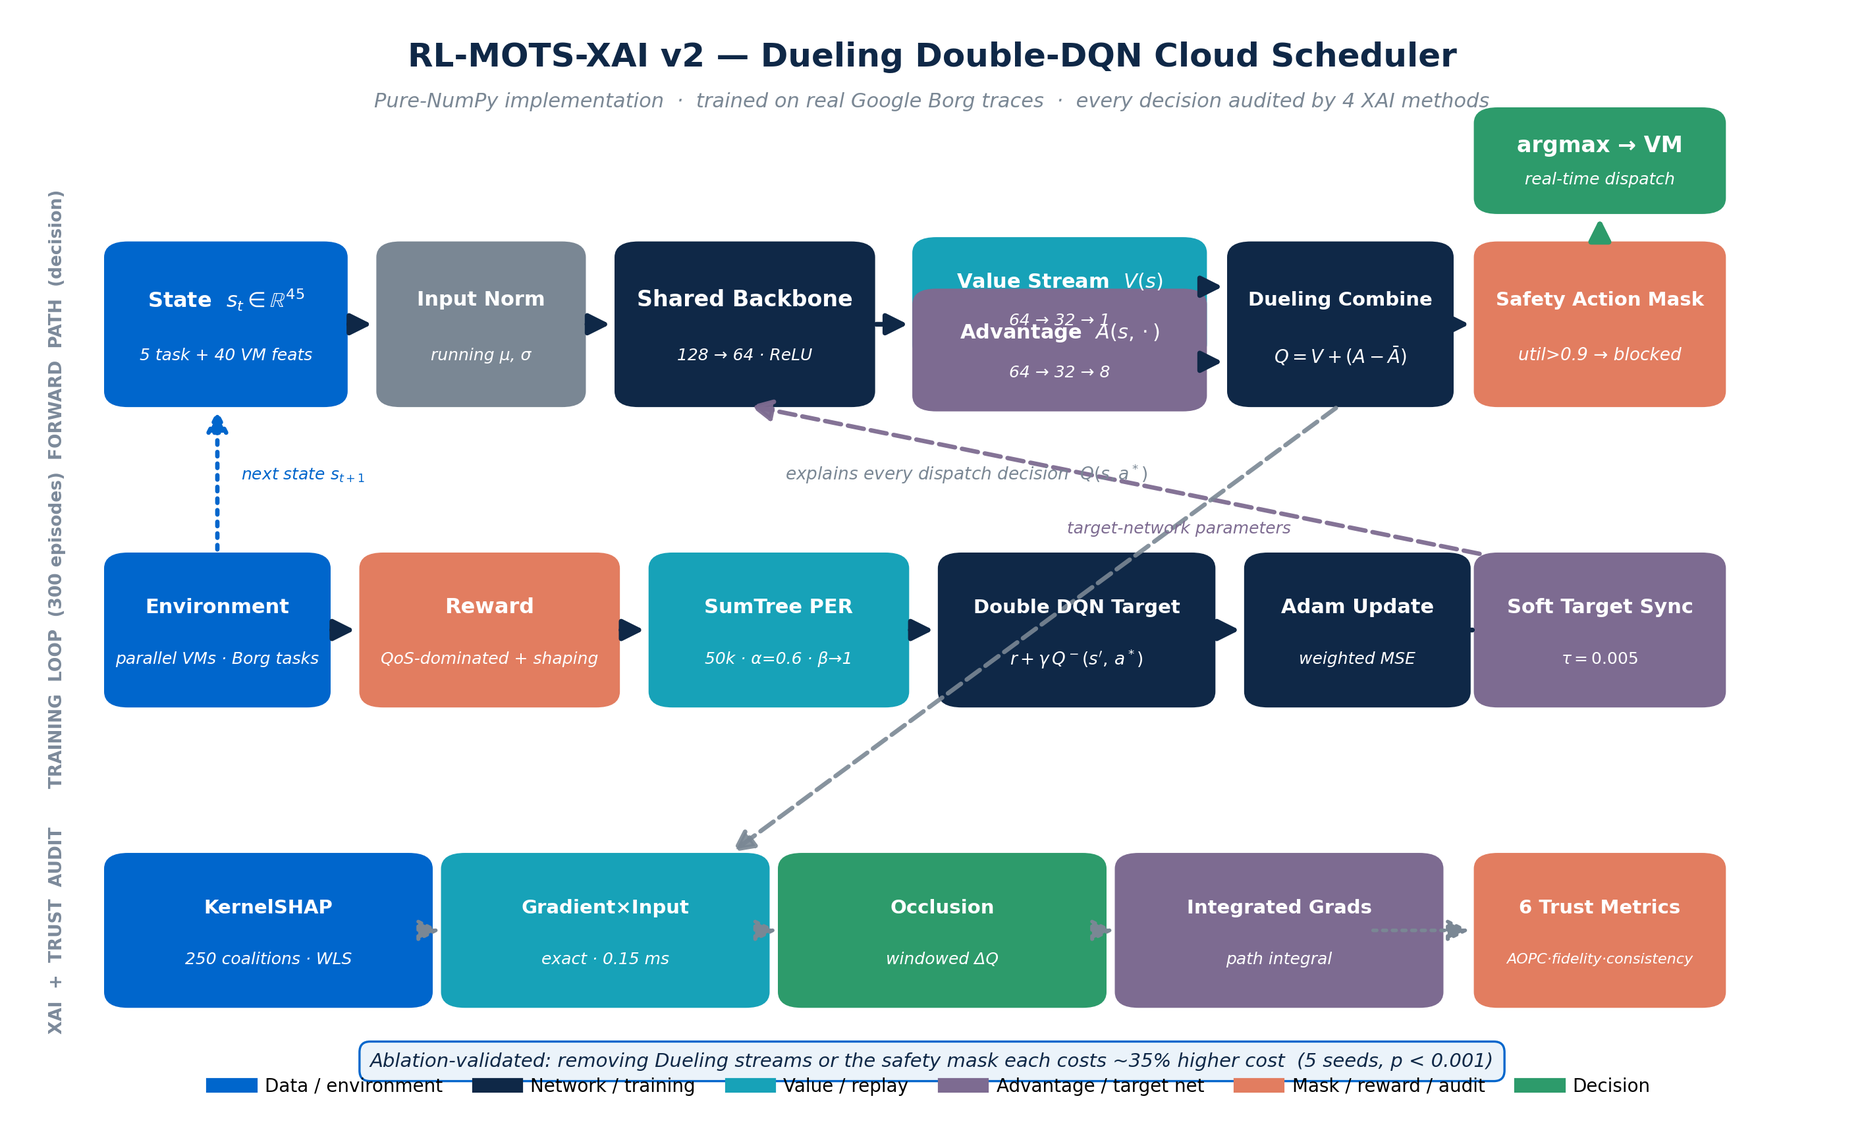
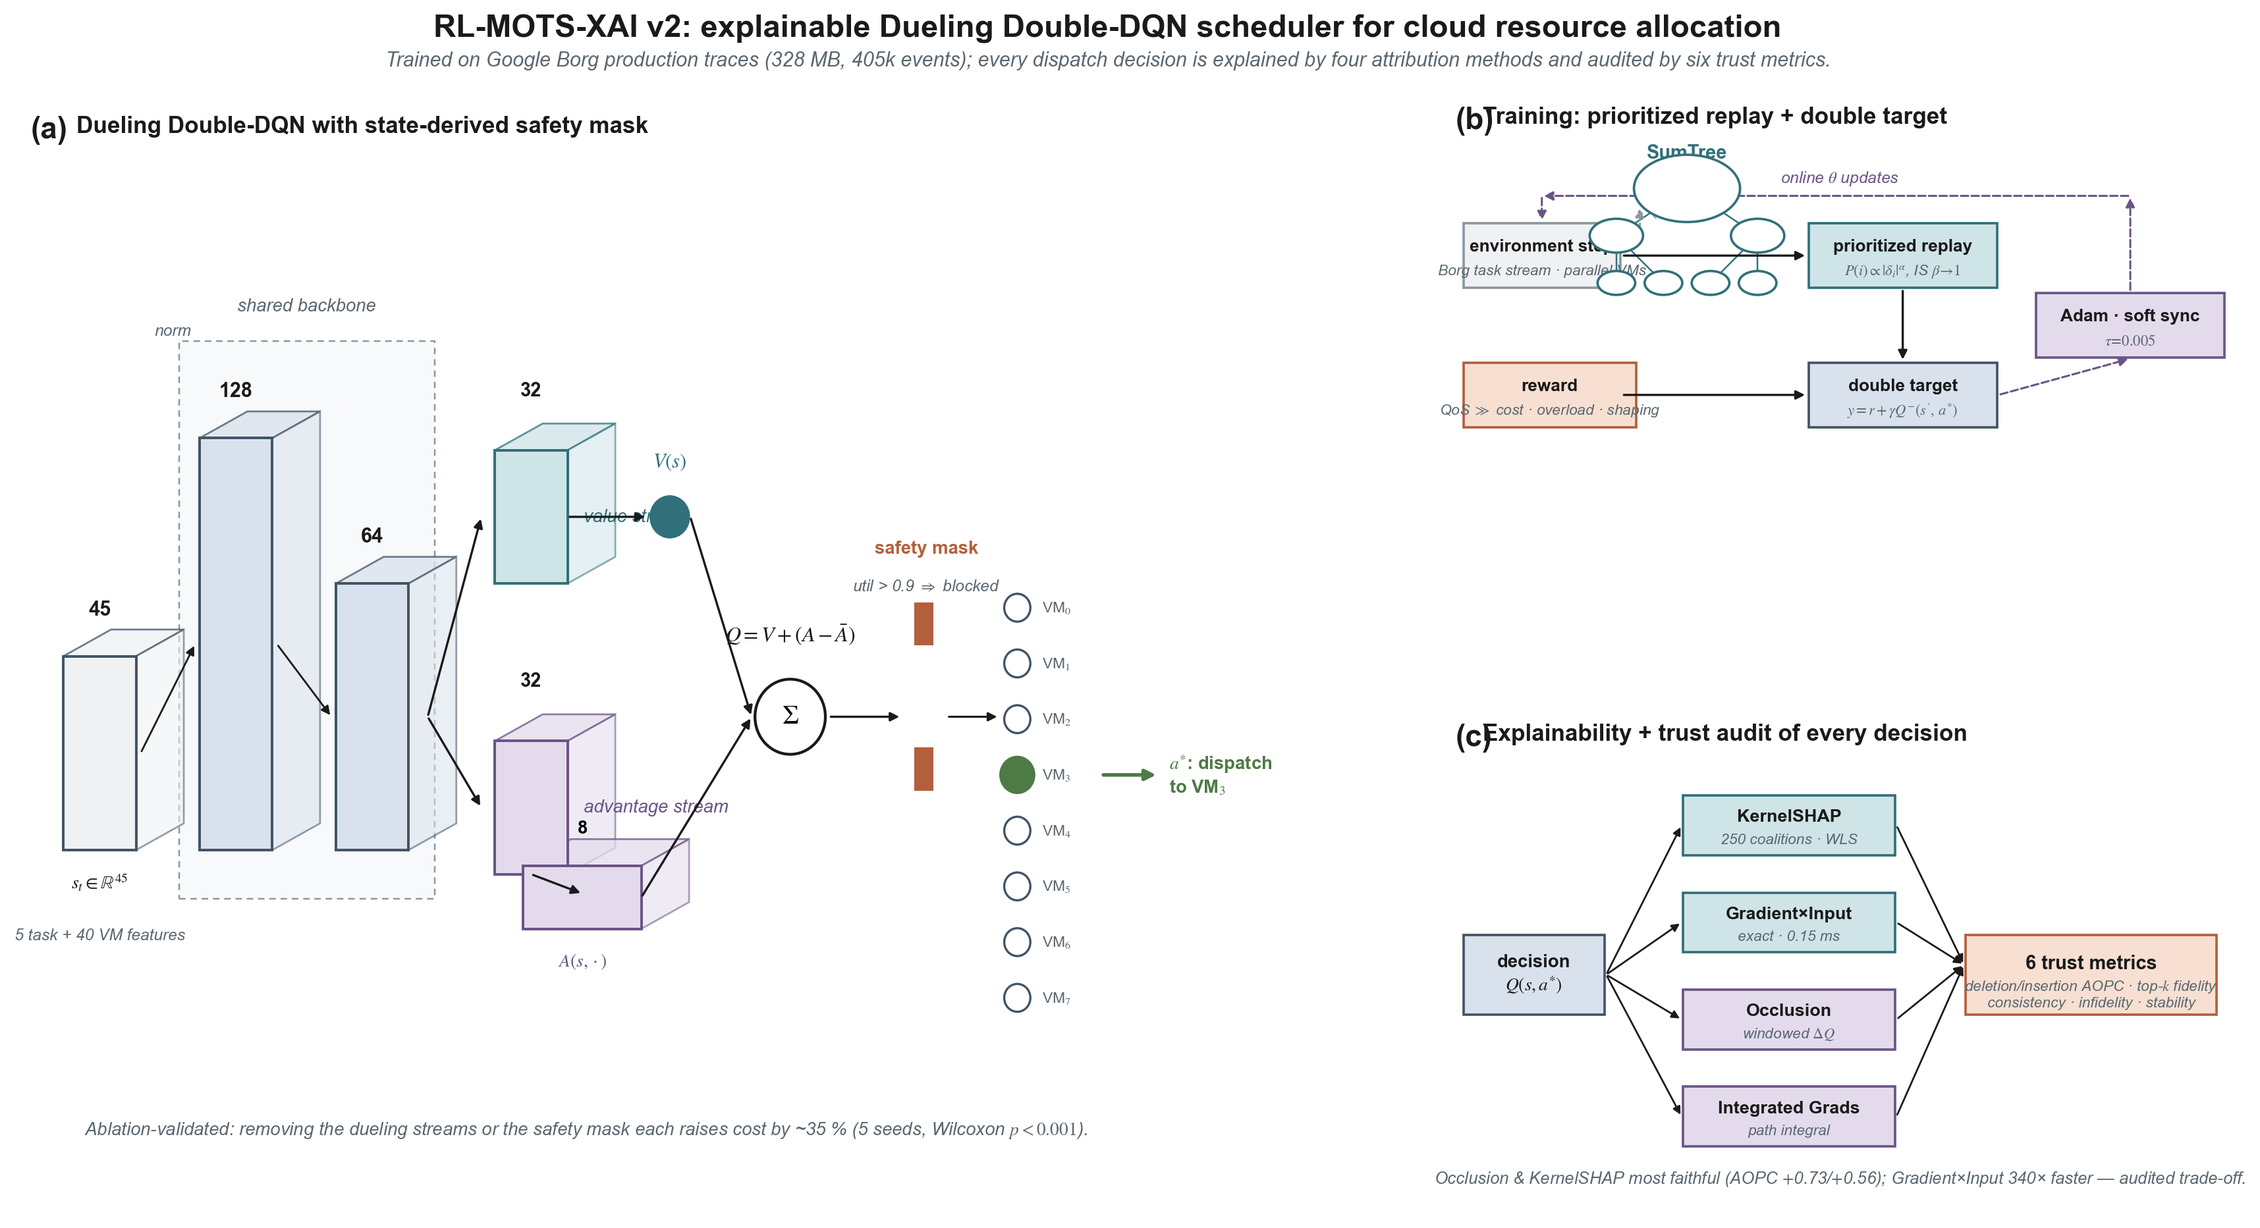
docs: journal-style architecture figure (isometric slabs, lettered panels)
Redrawn in Nature/NeurIPS style: pseudo-3D layer slabs with dimension
labels, muted pastel palette, panel (a) network / (b) training with a
drawn SumTree / (c) XAI trust audit. Replaces infographic-style version.

diff --git a/plot_architecture.py b/plot_architecture.py
@@ -1,145 +1,273 @@
 """
-plot_architecture.py — Publication-quality architecture diagram of the
-Dueling Double-DQN + safety mask + XAI stack.  -> results/architecture_diagram.png
+plot_architecture.py — Journal-style architecture figure (Nature/NeurIPS look):
+isometric layer slabs, muted palette, thin arrows, lettered panels (a)(b)(c).
+-> results/architecture_diagram.png
 """
 from pathlib import Path
 import matplotlib
 matplotlib.use("Agg")
 import matplotlib.pyplot as plt
-from matplotlib.patches import FancyBboxPatch, FancyArrowPatch
+from matplotlib.patches import FancyArrowPatch, Rectangle, Circle, Polygon
 from matplotlib.lines import Line2D
 
 HERE = Path(__file__).parent
 OUT = HERE / "results" / "architecture_diagram.png"
 
-NAVY, BLUE, TEAL = "#0F2847", "#0066CC", "#17A2B8"
-ORANGE, GREEN, GREY, PURPLE = "#E27D60", "#2D9B6B", "#7A8794", "#7D6B91"
-LIGHT = "#EBF3FA"
+# ---- journal palette (muted pastels, dark inks) ----
+INK      = "#1A1A1A"
+MUTED    = "#5B6770"
+SLATE_F  = "#D9E2EC"   # backbone slabs
+SLATE_E  = "#425466"
+TEAL_F   = "#CFE4E6"; TEAL_E  = "#31707A"   # value stream
+PURP_F   = "#E3DBEC"; PURP_E  = "#6A5486"   # advantage stream
+ORNG_F   = "#F7E0D2"; ORNG_E  = "#B35F3C"   # mask
+GRN_F    = "#D9EBD4"; GRN_E   = "#4E7A45"   # chosen action
+GREY_F   = "#EFF1F3"; GREY_E  = "#8A97A0"
 
-fig, ax = plt.subplots(figsize=(18, 11))
-ax.set_xlim(0, 108)
-ax.set_ylim(0, 104)
-ax.axis("off")
+plt.rcParams.update({
+    "font.family": "sans-serif",
+    "font.sans-serif": ["Arial", "Helvetica", "DejaVu Sans"],
+    "mathtext.fontset": "stix",
+})
+
+fig = plt.figure(figsize=(16, 9.0), facecolor="white")
+
+gs = fig.add_gridspec(2, 2, width_ratios=[1.65, 1], height_ratios=[1, 1],
+                      left=0.03, right=0.985, top=0.90, bottom=0.045,
+                      wspace=0.13, hspace=0.24)
+axA = fig.add_subplot(gs[:, 0])   # (a) network — full height left
+axB = fig.add_subplot(gs[0, 1])   # (b) training
+axC = fig.add_subplot(gs[1, 1])   # (c) XAI + trust
+
+fig.suptitle("RL-MOTS-XAI v2: explainable Dueling Double-DQN scheduler for cloud resource allocation",
+             fontsize=15.5, fontweight="bold", color=INK, y=0.965)
+fig.text(0.5, 0.925,
+         "Trained on Google Borg production traces (328 MB, 405k events); every dispatch decision is explained by four attribution methods and audited by six trust metrics.",
+         ha="center", fontsize=10, color=MUTED, style="italic")
+
+for ax in (axA, axB, axC):
+    ax.axis("off")
 
 
-def box(x, y, w, h, text, fc, ec=None, tc="white", fs=11, bold=True,
-        sub=None, sub_fs=9, lw=2.0):
-    ax.add_patch(FancyBboxPatch((x, y), w, h,
-                 boxstyle="round,pad=0.55,rounding_size=1.3",
-                 fc=fc, ec=ec or fc, lw=lw))
-    if sub:
-        ax.text(x + w / 2, y + h * 0.66, text, ha="center", va="center",
-                fontsize=fs, fontweight="bold" if bold else "normal", color=tc)
-        ax.text(x + w / 2, y + h * 0.29, sub, ha="center", va="center",
-                fontsize=sub_fs, color=tc, style="italic")
-    else:
-        ax.text(x + w / 2, y + h / 2, text, ha="center", va="center",
-                fontsize=fs, fontweight="bold" if bold else "normal", color=tc)
+def panel(ax, letter, title):
+    ax.text(0.01, 0.985, f"({letter})", transform=ax.transAxes,
+            fontsize=15, fontweight="bold", color=INK, va="top")
+    ax.text(0.045, 0.985, title, transform=ax.transAxes,
+            fontsize=11.5, fontweight="bold", color=INK, va="top")
 
 
-def arrow(x1, y1, x2, y2, color=NAVY, lw=2.6, ls="-", alpha=1.0):
+# ------------------------------------------------------------------ #
+# (a) NETWORK — isometric slabs                                       #
+# ------------------------------------------------------------------ #
+panel(axA, "a", "Dueling Double-DQN with state-derived safety mask")
+
+DX, DY = 4.2, 2.2   # isometric depth offsets
+
+
+def slab(ax, x, y, w, h, fc, ec, depth=(DX, DY)):
+    """Pseudo-3D slab: front face + top + side."""
+    ax.add_patch(Polygon([(x, y), (x + w, y), (x + w, y + h), (x, y + h)],
+                         closed=True, fc=fc, ec=ec, lw=1.3, zorder=3))
+    ax.add_patch(Polygon([(x, y + h), (x + w, y + h),
+                          (x + w + depth[0], y + h + depth[1]), (x + depth[0], y + h + depth[1])],
+                         closed=True, fc=fc, ec=ec, lw=0.9, alpha=0.75, zorder=2))
+    ax.add_patch(Polygon([(x + w, y), (x + w + depth[0], y + depth[1]),
+                          (x + w + depth[0], y + h + depth[1]), (x + w, y + h)],
+                         closed=True, fc=fc, ec=ec, lw=0.9, alpha=0.55, zorder=2))
+
+
+def tarrow(ax, x1, y1, x2, y2, color=INK, lw=1.1, ls="-", ms=9):
     ax.add_patch(FancyArrowPatch((x1, y1), (x2, y2), arrowstyle="-|>",
-                 mutation_scale=24, color=color, lw=lw, linestyle=ls,
-                 alpha=alpha, shrinkA=3, shrinkB=3))
+                 mutation_scale=ms, color=color, lw=lw, linestyle=ls,
+                 shrinkA=1, shrinkB=1, zorder=5))
 
 
-def lane_label(x, y, text, color=NAVY):
-    ax.text(x, y, text, rotation=90, va="center", ha="center",
-            fontsize=9.5, fontweight="bold", color=color, alpha=0.55)
+BASE = 30            # baseline y of slab bottoms
+SW = 6.4             # slab width
+xs = [4, 16, 28]     # input, fc1, fc2 x positions
+hs = [16, 34, 22]    # 45, 128, 64 (heights ~ proportional)
+dims = ["45", "128", "64"]
+labs = ["input\n$s_t$", "", ""]
 
+# grouped background: backbone
+axA.add_patch(Rectangle((14.2, BASE - 4), 22.5, 46, fc="#F7F9FB", ec=GREY_E,
+                        lw=0.8, ls=(0, (4, 3)), zorder=1))
+axA.text(25.4, BASE + 44.5, "shared backbone", ha="center", fontsize=9,
+         color=MUTED, style="italic")
 
-# ============================ TITLE ============================
-ax.text(54, 99, "RL-MOTS-XAI v2 — Dueling Double-DQN Cloud Scheduler",
-        ha="center", fontsize=18, fontweight="bold", color=NAVY)
-ax.text(54, 95.2, "Pure-NumPy implementation  ·  trained on real Google Borg traces  ·  "
-        "every decision audited by 4 XAI methods",
-        ha="center", fontsize=11, color=GREY, style="italic")
+slab(axA, xs[0], BASE, SW, hs[0], GREY_F, SLATE_E)
+slab(axA, xs[1], BASE, SW, hs[1], SLATE_F, SLATE_E)
+slab(axA, xs[2], BASE, SW, hs[2], SLATE_F, SLATE_E)
+for x, h, d in zip(xs, hs, dims):
+    axA.text(x + SW / 2, BASE + h + 3.4, d, ha="center", fontsize=10,
+             color=INK, fontweight="bold")
+axA.text(xs[0] + SW / 2, BASE - 3.2, "$s_t\\in\\mathbb{R}^{45}$", ha="center",
+         fontsize=9, color=INK)
+axA.text(xs[0] + SW / 2, BASE - 7.4, "5 task + 40 VM features", ha="center",
+         fontsize=8, color=MUTED, style="italic")
 
-# ==================== ROW A: FORWARD PATH =====================
-yA, hA = 68, 14
-lane_label(2.6, yA + hA / 2, "FORWARD  PATH  (decision)")
+# ---- streams ----
+VSX, ASX = 42, 42
+VY, AY = BASE + 22, BASE - 2
+slab(axA, VSX, VY, SW, 11, TEAL_F, TEAL_E)     # V hidden 32
+slab(axA, ASX, AY, SW, 11, PURP_F, PURP_E)     # A hidden 32
+axA.text(VSX + SW / 2, VY + 15.5, "32", ha="center", fontsize=9.5, fontweight="bold", color=INK)
+axA.text(ASX + SW / 2, AY + 15.5, "32", ha="center", fontsize=9.5, fontweight="bold", color=INK)
+axA.text(VSX + SW + 1.4, VY + 5.5, "value stream", fontsize=9, color=TEAL_E, style="italic", va="center")
+axA.text(ASX + SW + 1.4, AY + 5.5, "advantage stream", fontsize=9, color=PURP_E, style="italic", va="center")
 
-box(6,  yA, 13, hA, "State  $s_t\\in\\mathbb{R}^{45}$", BLUE, sub="5 task + 40 VM feats", fs=11.5)
-box(22, yA, 11, hA, "Input Norm", GREY, sub="running μ, σ", fs=11)
-box(36, yA, 14, hA, "Shared Backbone", NAVY, sub="128 → 64 · ReLU", fs=12)
-sH = 10
-box(53.5, yA + hA - sH + 0.4, 16, sH, "Value Stream  $V(s)$", TEAL, sub="64 → 32 → 1", fs=11)
-box(53.5, yA - 0.4,          16, sH, "Advantage  $A(s,\\cdot)$", PURPLE, sub="64 → 32 → 8", fs=11)
-box(72, yA, 12, hA, "Dueling Combine", NAVY, sub="$Q = V + (A - \\bar{A})$", fs=10.5, sub_fs=10)
-box(86.5, yA, 13.5, hA, "Safety Action Mask", ORANGE, sub="util>0.9 → blocked", fs=10.5, sub_fs=9.5)
-box(86.5, 86, 13.5, 8.5, "argmax → VM", GREEN, fs=12, sub="real-time dispatch")
+# heads: V -> scalar circle, A -> 8-slab
+tarrow(axA, xs[2] + SW + DX * 0.4, BASE + 11, VSX - 1.2, VY + 5.5)
+tarrow(axA, xs[2] + SW + DX * 0.4, BASE + 11, ASX - 1.2, AY + 5.5)
 
-arrow(19.4, yA + hA / 2, 21.4, yA + hA / 2)
-arrow(33.4, yA + hA / 2, 35.4, yA + hA / 2)
-arrow(50.4, yA + hA / 2, 52.9, yA + hA / 2)
-arrow(70.1, yA + hA * 0.75, 71.4, yA + hA * 0.75)
-arrow(70.1, yA + hA * 0.25, 71.4, yA + hA * 0.25)
-arrow(84.4, yA + hA / 2, 85.9, yA + hA / 2)
-arrow(93.25, yA + hA + 0.5, 93.25, 85.4, color=GREEN, lw=3.0)
+vdot = Circle((VSX + SW + 9, VY + 5.5), 1.7, fc=TEAL_E, ec=TEAL_E, zorder=6)
+axA.add_patch(vdot)
+axA.text(VSX + SW + 9, VY + 9.6, "$V(s)$", ha="center", fontsize=10, color=TEAL_E)
+tarrow(axA, VSX + SW, VY + 5.5, VSX + SW + 7.0, VY + 5.5)
 
-# ================== ROW B: TRAINING LOOP ======================
-yB, hB = 40, 13
-lane_label(2.6, yB + hB / 2, "TRAINING  LOOP  (300 episodes)")
+slab(axA, ASX + 2.5, AY - 4.5, SW + 4, 5.2, PURP_F, PURP_E)
+axA.text(ASX + 2.5 + (SW + 4) / 2, AY + 3.4, "8", ha="center", fontsize=9, fontweight="bold")
+axA.text(ASX + 2.5 + (SW + 4) / 2, AY - 7.6, "$A(s,\\cdot)$", ha="center", fontsize=9, color=PURP_E)
+tarrow(axA, ASX + SW / 2, AY, ASX + 2.5 + (SW + 4) / 2, AY - 1.6)
 
-box(6,  yB, 12, hB, "Environment", BLUE, sub="parallel VMs · Borg tasks", fs=11)
-box(21, yB, 14, hB, "Reward", ORANGE, sub="QoS-dominated + shaping", fs=11.5)
-box(38, yB, 14, hB, "SumTree PER", TEAL, sub="50k · α=0.6 · β→1", fs=11)
-box(55, yB, 15, hB, "Double DQN Target", NAVY, sub="$r+\\gamma\\, Q^-(s',\\, a^*)$", fs=10.5, sub_fs=9.5)
-box(73, yB, 12, hB, "Adam Update", NAVY, sub="weighted MSE", fs=11)
-box(86.5, yB, 13.5, hB, "Soft Target Sync", PURPLE, sub="$\\tau = 0.005$", fs=11)
+# ---- aggregation ----
+AGX = 68
+agg = Circle((AGX, BASE + 11), 3.1, fc="white", ec=INK, lw=1.4, zorder=6)
+axA.add_patch(agg)
+axA.text(AGX, BASE + 11, "$\\Sigma$", ha="center", va="center", fontsize=13, zorder=7)
+tarrow(axA, VSX + SW + 10.8, VY + 5.5, AGX - 3.4, BASE + 11)
+tarrow(axA, ASX + 2.5 + (SW + 4), AY - 1.9, AGX - 3.4, BASE + 11)
+axA.text(AGX, BASE + 17.2, "$Q=V+(A-\\bar{A})$", ha="center", fontsize=10.5, color=INK)
 
-arrow(18.4, yB + hB / 2, 20.4, yB + hB / 2)
-arrow(35.4, yB + hB / 2, 37.4, yB + hB / 2)
-arrow(52.4, yB + hB / 2, 54.4, yB + hB / 2)
-arrow(70.4, yB + hB / 2, 72.4, yB + hB / 2)
-arrow(85.4, yB + hB / 2, 85.9, yB + hB / 2)
+# ---- safety mask gate ----
+MGX = 79
+for yy in (BASE + 5, BASE + 17):
+    axA.add_patch(Rectangle((MGX, yy), 1.5, 3.4, fc=ORNG_E, ec=ORNG_E, zorder=6))
+tarrow(axA, AGX + 3.4, BASE + 11, MGX - 1.2, BASE + 11)
+axA.text(MGX + 1.0, BASE + 24.5, "safety mask", ha="center", fontsize=9, color=ORNG_E, fontweight="bold")
+axA.text(MGX + 1.0, BASE + 21.4, "util > 0.9 $\\Rightarrow$ blocked", ha="center",
+         fontsize=8, color=MUTED, style="italic")
 
-# feedback arrows
-arrow(86.5, yB + hB + 0.5, 43, yA - 0.5, color=PURPLE, lw=2.4, ls="--", alpha=0.95)
-ax.text(68.5, 55.5, "target-network parameters", fontsize=9, color=PURPLE,
+# ---- 8 candidate actions ----
+OX = 88
+ys8 = [BASE + 20 - i * 4.6 for i in range(8)]
+for i, yy in enumerate(ys8):
+    axA.add_patch(Circle((OX, yy), 1.15, fc="white", ec=SLATE_E, lw=1.1, zorder=6))
+    axA.text(OX + 2.2, yy, f"VM$_{{{i}}}$", fontsize=7.5, color=MUTED, va="center")
+tarrow(axA, MGX + 2.8, BASE + 11, OX - 1.6, BASE + 11, lw=1.0)
+# chosen action
+chosen = ys8[3]
+axA.add_patch(Circle((OX, chosen), 1.5, fc=GRN_E, ec=GRN_E, zorder=7))
+tarrow(axA, OX + 7.4, chosen, OX + 12.4, chosen, color=GRN_E, lw=1.8, ms=11)
+axA.text(OX + 13.4, chosen, "$a^{*}$: dispatch\nto VM$_3$", fontsize=9,
+         color=GRN_E, va="center", fontweight="bold")
+
+# normalization note between input and fc1
+axA.text(13.6, BASE + 42.5, "norm", fontsize=8, color=MUTED, ha="center", style="italic")
+tarrow(axA, xs[0] + SW + 0.4, BASE + 8, xs[1] - 0.4, BASE + 17, lw=0.9)
+tarrow(axA, xs[1] + SW + 0.4, BASE + 17, xs[2] - 0.4, BASE + 11, lw=0.9)
+
+# ablation footnote inside (a)
+axA.text(50, 6.5,
+         "Ablation-validated: removing the dueling streams or the safety mask each raises cost by ~35 % (5 seeds, Wilcoxon $p<0.001$).",
+         ha="center", fontsize=9, color=MUTED, style="italic")
+
+axA.set_xlim(0, 114); axA.set_ylim(0, 92)
+
+# ------------------------------------------------------------------ #
+# (b) TRAINING — SumTree PER + double target                          #
+# ------------------------------------------------------------------ #
+panel(axB, "b", "Training: prioritized replay + double target")
+
+bx = axB
+bx.set_xlim(0, 100); bx.set_ylim(0, 100)
+
+def mbox(ax, x, y, w, h, text, fc, ec, fs=8.6, sub=None, sub_fs=7.4):
+    ax.add_patch(Rectangle((x, y), w, h, fc=fc, ec=ec, lw=1.2))
+    if sub:
+        ax.text(x + w / 2, y + h * 0.64, text, ha="center", va="center", fontsize=fs, color=INK, fontweight="bold")
+        ax.text(x + w / 2, y + h * 0.26, sub, ha="center", va="center", fontsize=sub_fs, color=MUTED, style="italic")
+    else:
+        ax.text(x + w / 2, y + h / 2, text, ha="center", va="center", fontsize=fs, color=INK, fontweight="bold")
+
+# environment & reward
+mbox(bx, 2, 62, 20, 13, "environment step", GREY_F, GREY_E,
+     sub="Borg task stream · parallel VMs")
+mbox(bx, 2, 34, 22, 13, "reward", ORNG_F, ORNG_E,
+     sub="QoS $\\gg$ cost · overload · shaping")
+
+# mini SumTree
+def sumtree(ax, x0, y0):
+    levels = [(1, 5.2), (2, 3.4), (4, 2.4)]   # (n_nodes, radius)
+    xs_levels, ys_levels = [], []
+    yy = y0
+    for li, (n, r) in enumerate(levels):
+        if n == 1:
+            xs_ = [x0]
+        else:
+            xs_ = [x0 - 9 + i * (18 / (n - 1)) for i in range(n)]
+        for xx in xs_:
+            ax.add_patch(Circle((xx, yy), r * (1.3 if li == 0 else 1.0),
+                                fc="white", ec=TEAL_E, lw=1.2, zorder=6))
+        xs_levels.append(xs_); ys_levels.append(yy)
+        yy -= 9.5
+    for d in range(len(levels) - 1):
+        for i, p in enumerate(xs_levels[d]):
+            for c in xs_levels[d + 1][2 * i: 2 * i + 2]:
+                ax.plot([p, c], [ys_levels[d], ys_levels[d + 1]],
+                        color=TEAL_E, lw=0.8, zorder=5)
+
+bx.text(30.5, 88, "SumTree", fontsize=9.5, color=TEAL_E, fontweight="bold", ha="center")
+sumtree(bx, 30.5, 82)
+
+mbox(bx, 46, 62, 24, 13, "prioritized replay", TEAL_F, TEAL_E,
+     sub="$P(i)\\propto|\\delta_i|^{\\alpha}$, IS $\\beta\\!\\to\\!1$")
+mbox(bx, 46, 34, 24, 13, "double target", SLATE_F, SLATE_E,
+     sub="$y=r+\\gamma Q^{-}(s',\\,a^{*})$")
+
+mbox(bx, 75, 48, 24, 13, "Adam · soft sync", PURP_F, PURP_E,
+     sub="$\\tau\\!=\\!0.005$")
+
+tarrow(bx, 22.2, 68.5, 45.8, 68.5)
+tarrow(bx, 58, 61.8, 58, 47.2)
+tarrow(bx, 22.2, 40.5, 45.8, 40.5)
+tarrow(bx, 70.2, 40.5, 87, 47.8, color=PURP_E, ls="--", lw=1.0)
+tarrow(bx, 87, 61.2, 87, 80.5, color=PURP_E, ls="--", lw=1.0)
+tarrow(bx, 87, 80.5, 12, 80.5, color=PURP_E, ls="--", lw=1.0)
+tarrow(bx, 12, 80.5, 12, 75.2, color=PURP_E, ls="--", lw=1.0)
+bx.text(50, 83.2, "online $\\theta$ updates", fontsize=8, color=PURP_E,
         style="italic", ha="center")
-arrow(12, yB + hB + 0.5, 12, yA - 0.5, color=BLUE, lw=2.4, ls=":")
-ax.text(13.4, 60.5, "next state $s_{t+1}$", fontsize=9, color=BLUE,
-        style="italic", ha="left")
+tarrow(bx, 24.5, 72, 24.5, 78.5, color=GREY_E, ls=":", lw=1.0)
+bx.text(26, 76.4, "$(s, a, r, s')$", fontsize=7.6, color=MUTED, ha="left")
 
-# ================= ROW C: XAI + TRUST =========================
-yC, hC = 12, 13
-lane_label(2.6, yC + hC / 2, "XAI  +  TRUST  AUDIT")
+# ------------------------------------------------------------------ #
+# (c) XAI + TRUST                                                     #
+# ------------------------------------------------------------------ #
+panel(axC, "c", "Explainability + trust audit of every decision")
 
-xai = [("KernelSHAP", "250 coalitions · WLS", BLUE),
-       ("Gradient×Input", "exact · 0.15 ms", TEAL),
-       ("Occlusion", "windowed ΔQ", GREEN),
-       ("Integrated Grads", "path integral", PURPLE)]
-bw = 18
-for i, (name, sub, c) in enumerate(xai):
-    box(6 + i * 19.8, yC, bw, hC, name, c, sub=sub, fs=10.5)
-box(86.5, yC, 13.5, hC, "6 Trust Metrics", ORANGE,
-    sub="AOPC·fidelity·consistency", fs=10.5, sub_fs=8)
+cx = axC
+cx.set_xlim(0, 100); cx.set_ylim(0, 100)
 
-# tap from dueling combine into XAI row
-arrow(78, yA - 0.5, 42, yC + hC + 0.5, color=GREY, lw=2.4, ls="--", alpha=0.9)
-ax.text(56, 60.5, "explains every dispatch decision  $Q(s, a^*)$",
-        fontsize=9.5, color=GREY, style="italic", ha="center")
-for i in range(3):
-    arrow(24.2 + i * 19.8, yC + hC / 2, 25.4 + i * 19.8, yC + hC / 2, color=GREY, lw=2.0, ls=":")
-arrow(79.6, yC + hC / 2, 85.9, yC + hC / 2, color=GREY, lw=2.0, ls=":")
+mbox(cx, 2, 40, 18, 16, "decision\n$Q(s, a^{*})$", SLATE_F, SLATE_E, fs=9)
 
-# ============================ FOOTER ===========================
-ax.text(54, 5.8, "Ablation-validated: removing Dueling streams or the safety mask each costs ~35% "
-        "higher cost  (5 seeds, p < 0.001)",
-        ha="center", fontsize=10.5, color=NAVY, style="italic",
-        bbox=dict(boxstyle="round,pad=0.55", fc=LIGHT, ec=BLUE, lw=1.2))
+methods = [("KernelSHAP", "250 coalitions · WLS", TEAL_F, TEAL_E),
+           ("Gradient×Input", "exact · 0.15 ms", TEAL_F, TEAL_E),
+           ("Occlusion", "windowed $\\Delta Q$", PURP_F, PURP_E),
+           ("Integrated Grads", "path integral", PURP_F, PURP_E)]
+yy = 72
+for name, sub, fc, ec in methods:
+    mbox(cx, 30, yy, 27, 12, name, fc, ec, fs=8.8, sub=sub)
+    tarrow(cx, 20.2, 48, 29.8, yy + 6, lw=0.9, ms=8)
+    yy -= 19.5
 
-handles = [
-    Line2D([0], [0], color=BLUE,   lw=8, label="Data / environment"),
-    Line2D([0], [0], color=NAVY,   lw=8, label="Network / training"),
-    Line2D([0], [0], color=TEAL,   lw=8, label="Value / replay"),
-    Line2D([0], [0], color=PURPLE, lw=8, label="Advantage / target net"),
-    Line2D([0], [0], color=ORANGE, lw=8, label="Mask / reward / audit"),
-    Line2D([0], [0], color=GREEN,  lw=8, label="Decision"),
-]
-ax.legend(handles=handles, loc="lower center", ncol=6, frameon=False,
-          fontsize=10, bbox_to_anchor=(0.5, 0.015))
+mbox(cx, 66, 40, 32, 16, "6 trust metrics", ORNG_F, ORNG_E, fs=9.5,
+     sub="deletion/insertion AOPC · top-$k$ fidelity\nconsistency · infidelity · stability")
+for yv in (78, 58.5, 39, 19.5):
+    tarrow(cx, 57.2, yv, 65.8, 50 if yv != 50 else 50, lw=0.9, ms=8)
 
-fig.savefig(OUT, dpi=200, bbox_inches="tight", facecolor="white")
+cx.text(50, 6,
+        "Occlusion & KernelSHAP most faithful (AOPC $+$0.73/$+$0.56); Gradient×Input 340× faster — audited trade-off.",
+        ha="center", fontsize=8.4, color=MUTED, style="italic")
+
+fig.savefig(OUT, dpi=220, bbox_inches="tight", facecolor="white")
 print(f"saved -> {OUT}")
